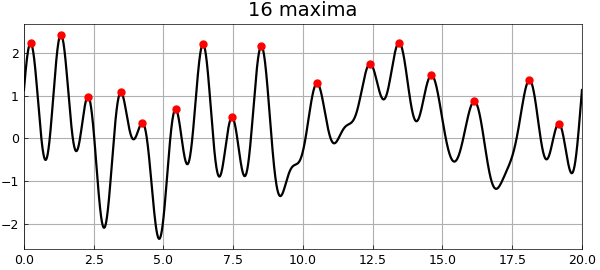
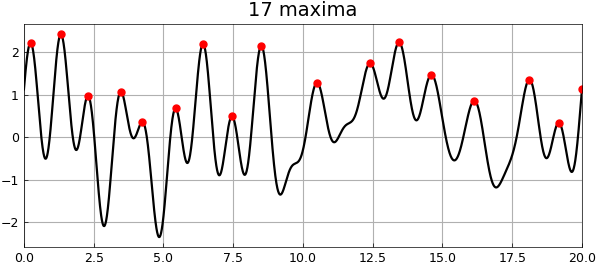
Use public local maxima and reference canvases in RandomMaxima
Translate max(f,local) including endpoint extrema, plot raw returned counts, reproduce source timing output shape, and export three 600x268 canvases. Exact source-shaped CPU run and four independent endpoint controls pass. MATLAB RNG, plot styles and pixel parity remain open.

diff --git a/examples/stats/random_maxima.py b/examples/stats/random_maxima.py
@@ -1,7 +1,7 @@
 """How many local maxima does a random function have?
 
 Translation of stats/RandomMaxima.m by Nick Trefethen
-(March 2017): counting local maxima of band-limited random functions
+(February 2017): counting local maxima of band-limited random functions
 — the count grows linearly with the interval length.
 
 randn draws are not bit-reproducible vs MATLAB; the counts are our
@@ -20,6 +20,8 @@ import warnings
 
 import jax
 import matplotlib.pyplot as plt
+
+# uses-numpy: Matplotlib display grids and host conversion of public Chebfun results.
 import numpy as np
 
 sys.path.insert(0, os.path.join(os.path.dirname(__file__), '..', '..', 'src'))
@@ -36,14 +38,14 @@ FIG = [0]
 
 
 def _local_maxima(f):
-    """Positions/values of local maxima (interior maxima of f)."""
-    df = f.diff()
-    r = np.asarray(df.roots(nojump=True))
-    d2 = df.diff()
-    keep = np.asarray(d2(r)) < 0
-    pos = r[keep]
-    val = np.asarray(f(pos))
-    return val, pos
+    """Return values/positions from the source local-maxima API.
+
+    MATLAB max(f, 'local') returns (values, positions); this Python API
+    returns (positions, values), so reorder its tuple here. The public
+    implementation includes domain endpoints, matching the source example.
+    """
+    pos, val = f.max("local")
+    return np.asarray(val), np.asarray(pos)
 
 
 def _panel(f, dom, ms=10, lw=1.6):
@@ -58,7 +60,7 @@ def _panel(f, dom, ms=10, lw=1.6):
     fig.set_facecolor("white")
     fig.tight_layout()
     _savefig(fig, os.path.join(
-        _IMG, f"RandomMaxima_{FIG[0]:02d}.png"))
+        _IMG, f"RandomMaxima_{FIG[0]:02d}.png"), size=(600, 268))
     plt.close(fig)
     return len(val)
 
@@ -85,7 +87,7 @@ def run():
     FIG[0] += 1
     fig, ax = plt.subplots(figsize=(7.2, 6.6))
     ax.loglog(Lvec, Lvec, '-r', lw=2)
-    ax.loglog(Lvec, np.maximum(nmax, 0.8), '.', ms=16)
+    ax.loglog(Lvec, nmax, '.', ms=16)
     ax.grid(True)
     ax.axis([0.8, 1300, 0.8, 1300])
     ax.set_xlabel("length of interval", fontsize=13)
@@ -93,9 +95,8 @@ def run():
     fig.set_facecolor("white")
     fig.tight_layout()
     _savefig(fig, os.path.join(
-        _IMG, f"RandomMaxima_{FIG[0]:02d}.png"))
+        _IMG, f"RandomMaxima_{FIG[0]:02d}.png"), size=(600, 268))
     plt.close(fig)
-    print("counts:", nmax)
     print("time_in_seconds =")
     print(f"    {time.time()-t0:.4f}")
 

diff --git a/docs/examples/stats/RandomMaxima.md b/docs/examples/stats/RandomMaxima.md
@@ -63,7 +63,7 @@ format short, time_in_seconds = toc
 
 ```text
 time_in_seconds =
-    63.3092
+    87.4760
 ```
 
 ---
